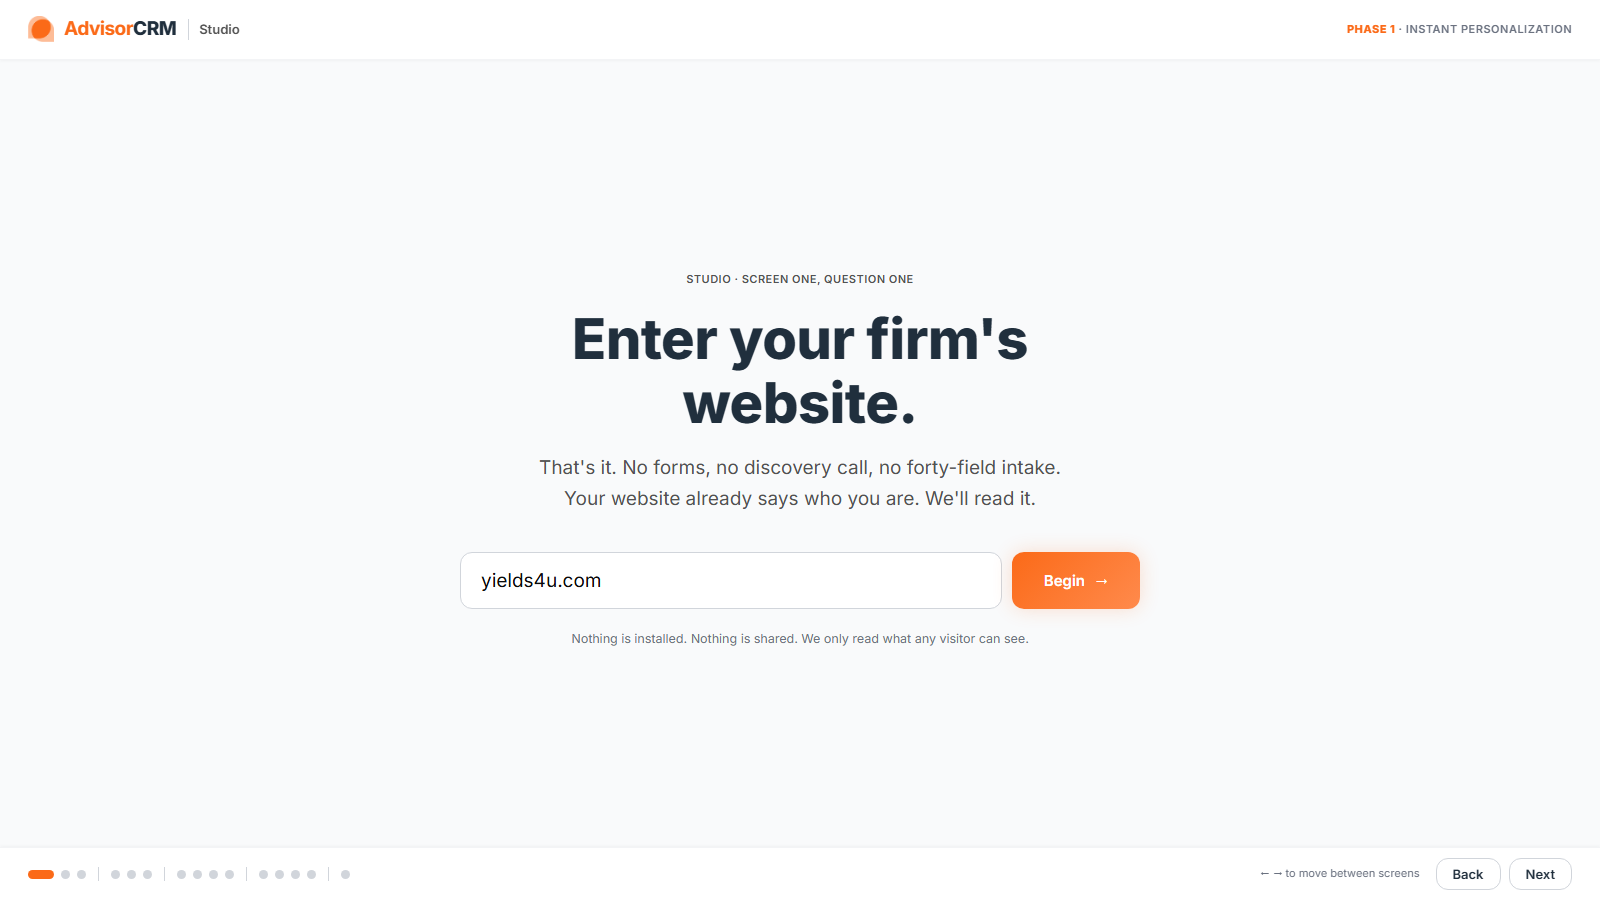
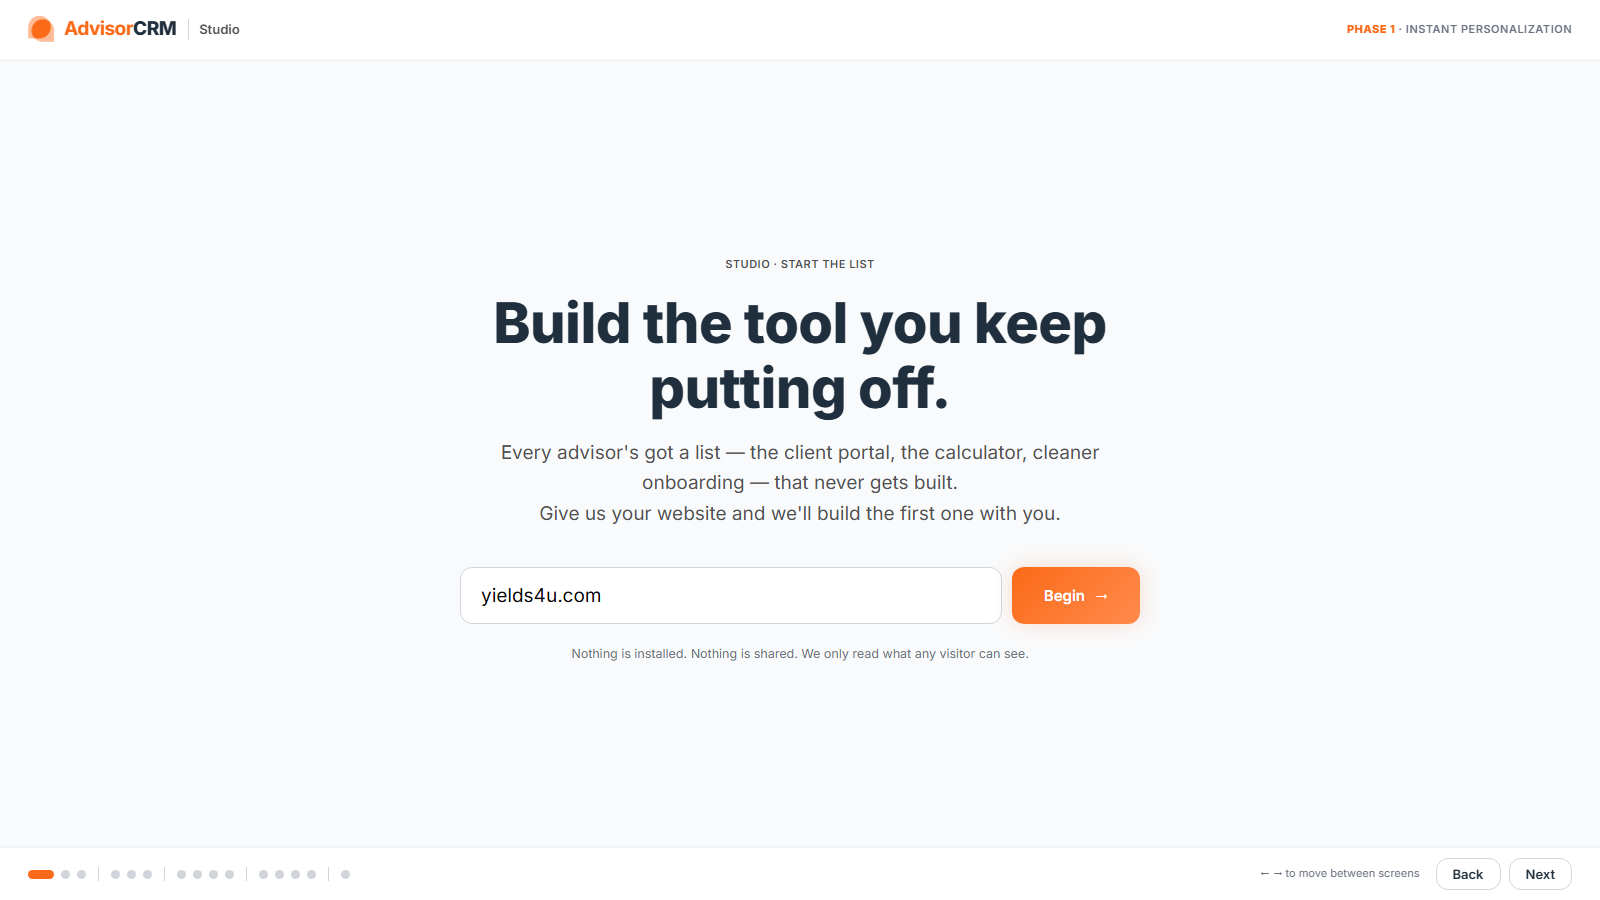
Rebuild demo around advisor backlog concept + refreshed screens

Changed region(s): [[0.2812, 0.4978, 0.7188, 0.7467], [0.3125, 0.28, 0.6875, 0.4667]]

diff --git a/index.html b/index.html
@@ -765,9 +765,9 @@ input,textarea,select { font-family:var(--font-body); }
 <!-- ============ 1 · START ============ -->
 <section class="screen" id="s1">
   <div class="start-inner">
-    <div class="eyebrow">Studio · Screen one, question one</div>
-    <h1 class="serif-h" style="margin-top:18px;">Enter your firm's website.</h1>
-    <p class="sub">That's it. No forms, no discovery call, no forty-field intake.<br> Your website already says who you are. We'll read it.</p>
+    <div class="eyebrow">Studio · Start the list</div>
+    <h1 class="serif-h" style="margin-top:18px;">Build the tool you keep putting off.</h1>
+    <p class="sub">Every advisor's got a list — the client portal, the calculator, cleaner onboarding — that never gets built.<br> Give us your website and we'll build the first one with you.</p>
     <div class="domain-row">
       <input type="text" id="domain-input" placeholder="yourfirm.com" value="yields4u.com" spellcheck="false">
       <button class="btn btn--gold btn--lg" onclick="startDiscovery()">Begin <span class="arr">→</span></button>
@@ -995,8 +995,8 @@ input,textarea,select { font-family:var(--font-body); }
 <section class="screen" id="s4">
   <div class="wrap">
     <div class="eyebrow">Phase 2 · Intent</div>
-    <h2 class="serif-h" style="font-size:40px; margin-top:14px;">What are you trying to solve?</h2>
-    <p style="color:var(--fg-muted); margin-top:12px; max-width:620px;">Pick the problem, not the product. You can build the rest later — they all live in the same place.</p>
+    <h2 class="serif-h" style="font-size:40px; margin-top:14px;">What's first on the list?</h2>
+    <p style="color:var(--fg-muted); margin-top:12px; max-width:620px;">Pick the one that's been bugging you the longest. The rest are here when you want them — they all live in the same place.</p>
 
     <div class="pick-grid" id="problem-grid">
       <button class="pick-card selected" data-problem="Client onboarding">
@@ -1643,7 +1643,7 @@ input,textarea,select { font-family:var(--font-body); }
     <div id="pub-success">
       <div class="ps-h">It's <em>live.</em></div>
       <div class="ps-url">https://portal.yields4u.com</div>
-      <p class="ps-sub">From one link on your website to a working, branded, connected app.<br>The choice was yours — and you made it.</p>
+      <p class="ps-sub">From one link to the first tool off your list.<br>Same goes for the next one.</p>
       <div style="margin-top:26px;">
         <button class="btn btn--gold btn--lg" onclick="go(15)">See It in Your Advisor OS <span class="arr">→</span></button>
       </div>
@@ -1658,7 +1658,7 @@ input,textarea,select { font-family:var(--font-body); }
       <div>
         <div class="eyebrow">My Advisor OS</div>
         <h2 class="serif-h" style="font-size:44px; margin-top:12px;">Good afternoon, Leibel.</h2>
-        <p style="color:var(--fg-muted); margin-top:10px;">Every app your firm runs on, in one place. Built by you, branded as you.</p>
+        <p style="color:var(--fg-muted); margin-top:10px;">Every tool your firm runs on, in one place. One built today. The rest of the list, whenever you want them.</p>
       </div>
       <button class="btn btn--outline" onclick="restart()">Start Another Build</button>
     </div>
@@ -1702,7 +1702,7 @@ input,textarea,select { font-family:var(--font-body); }
     </div>
 
     <div class="os-closer">
-      <p class="oc-line">This isn't a portal you rented. It's an operating system <em>you built.</em></p>
+      <p class="oc-line">This isn't software you rented. It's your list, getting built — and what you build, <em>you own.</em></p>
     </div>
   </div>
 </section>
